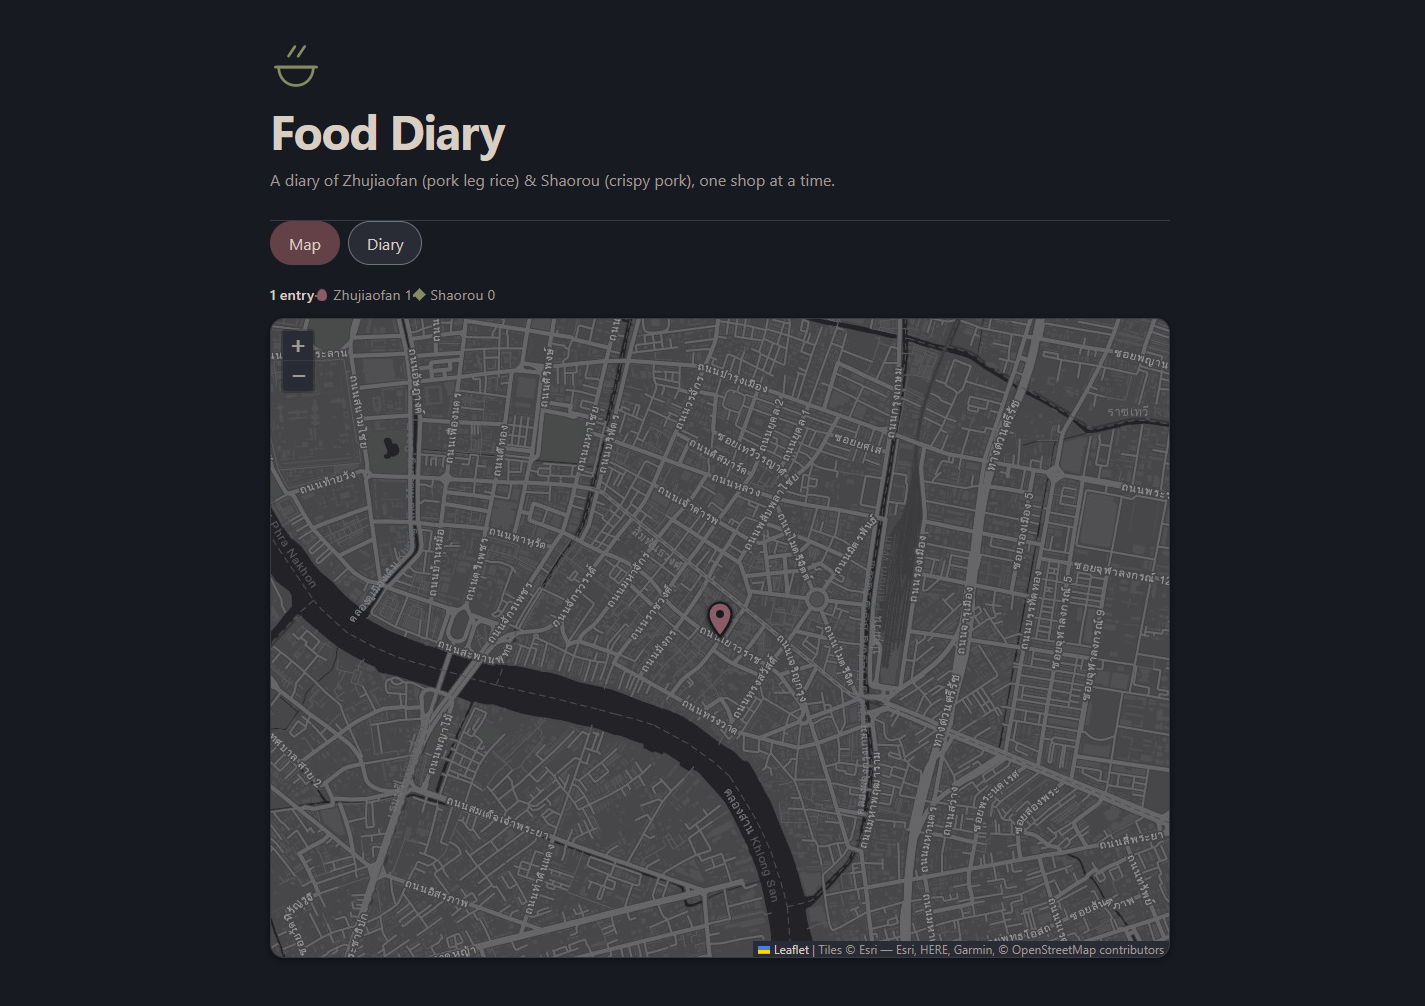
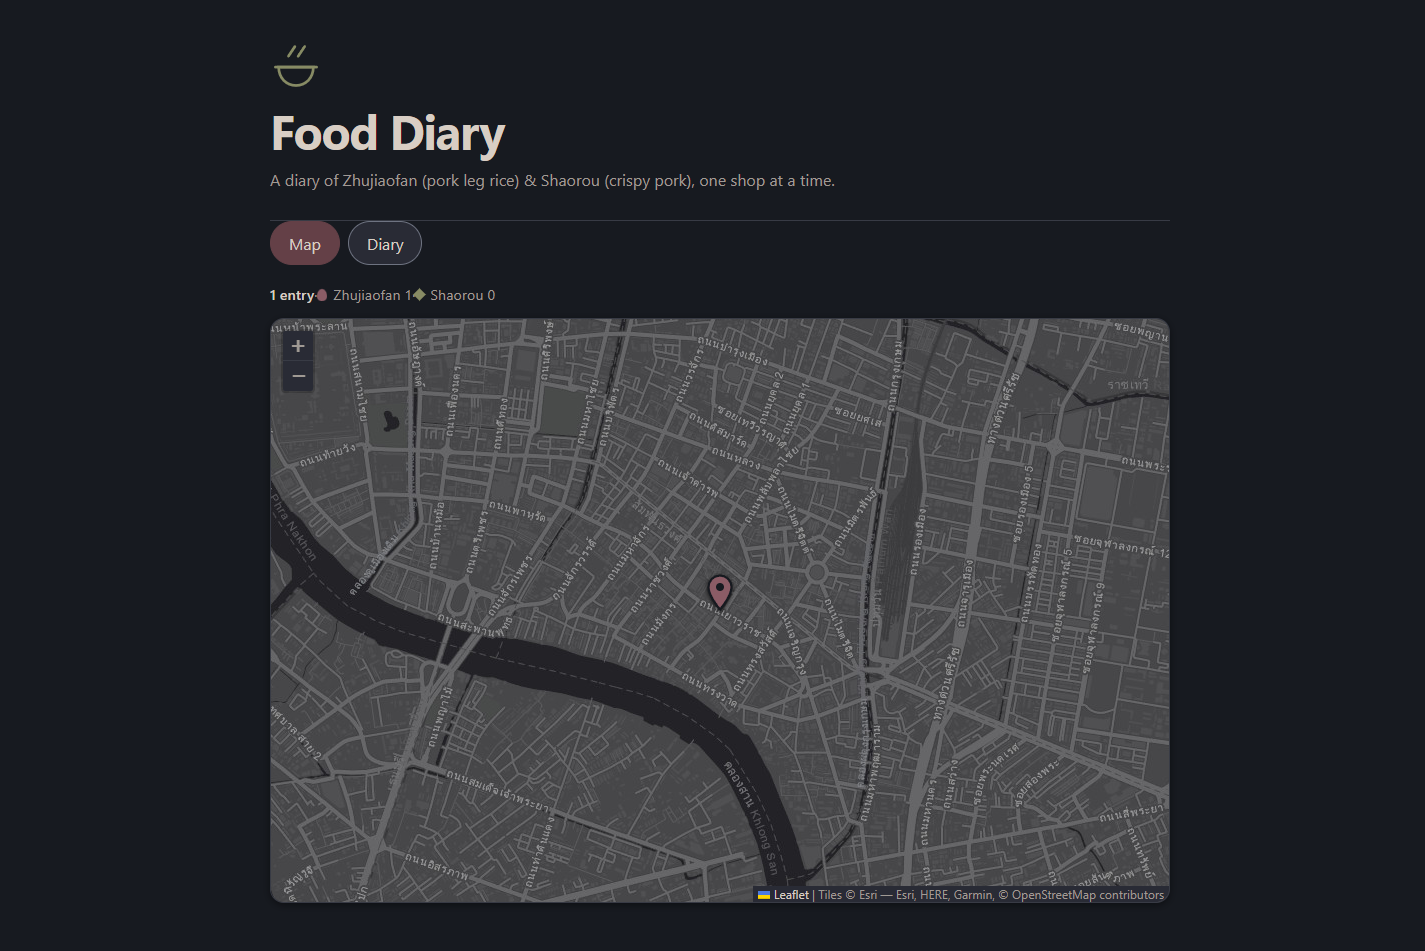
Fix popup link contrast, visible tile failure, doc accuracy

Changed region(s): [[0.1853, 0.5184, 0.8337, 0.9758], [0.1853, 0.0305, 0.8337, 0.4879]]

diff --git a/styles.css b/styles.css
@@ -149,6 +149,13 @@ header p { margin: 10px 0 0; color: var(--text-secondary); }
   border-color: var(--color-wine-deep);
 }
 
+.map-error {
+  max-width: var(--container);
+  margin: 0 auto var(--space-2);
+  color: var(--text-secondary);
+  font-size: var(--text-small);
+}
+
 #map-panel { max-width: var(--container); margin: 0 auto; }
 
 #map {
@@ -275,6 +282,11 @@ time { color: var(--text-secondary); font-size: var(--text-small); }
 .link:hover { text-decoration-color: var(--text-primary); }
 
 .leaflet-popup-content .chip { margin-bottom: 6px; }
+.leaflet-popup-content .link {
+  display: block;
+  color: var(--text-primary);
+  margin: 10px 0 0;
+}
 
 .empty { color: var(--text-secondary); }
 .empty p { margin: 0 0 var(--space-2); }
@@ -386,7 +398,10 @@ time { color: var(--text-secondary); font-size: var(--text-small); }
 
 #sheet-tag { align-self: flex-start; }
 
-.sheet-inner .link { align-self: flex-start; }
+.sheet-inner .link {
+  align-self: flex-start;
+  padding: var(--space-1) 0;
+}
 
 .sheet-open {
   margin-top: 14px;
@@ -410,4 +425,5 @@ time { color: var(--text-secondary); font-size: var(--text-small); }
   #map { height: calc(100svh - 310px); min-height: 300px; }
   .btn { padding: var(--space-1) var(--space-3); }
   .leaflet-control-zoom { display: none; }
+  .leaflet-control-attribution { font-size: 10px; }
 }

diff --git a/index.html b/index.html
@@ -5,7 +5,7 @@
   <meta name="viewport" content="width=device-width, initial-scale=1">
   <title>Food Diary</title>
   <link rel="stylesheet" href="https://unpkg.com/leaflet@1.9.4/dist/leaflet.css">
-  <link rel="stylesheet" href="styles.css?v=8">
+  <link rel="stylesheet" href="styles.css?v=9">
 </head>
 <body>
   <header>
@@ -26,6 +26,7 @@
 
   <section id="map-panel">
     <p id="map-summary" class="summary"></p>
+    <p id="map-error" class="map-error" hidden>The map tiles could not load. The diary below still works.</p>
     <div id="map" role="region" aria-label="Shop map"></div>
   </section>
 
@@ -51,7 +52,7 @@
   </div>
 
   <script src="https://unpkg.com/leaflet@1.9.4/dist/leaflet.js"></script>
-  <script src="data/entries.js?v=8"></script>
-  <script src="app.js?v=8"></script>
+  <script src="data/entries.js?v=9"></script>
+  <script src="app.js?v=9"></script>
 </body>
 </html>

diff --git a/app.js b/app.js
@@ -337,9 +337,13 @@ function initMap() {
   ).addTo(map);
 
   let tileFailures = 0;
+  const mapError = document.getElementById("map-error");
   tiles.on("tileerror", () => {
     tileFailures += 1;
-    if (tileFailures === 1) announce("The map tiles could not load.");
+    if (tileFailures === 1) {
+      if (mapError) mapError.hidden = false;
+      announce("The map tiles could not load.");
+    }
   });
 
   const points = [];

diff --git a/DESIGN.md b/DESIGN.md
@@ -145,7 +145,7 @@ A single centred column capped at 900px, with 20px page padding (12px on phones)
 
 Density is comfortable: 18px between cards, 18–20px card padding, 8px between pills, more space above a heading than below it. The masthead closes on a hairline before the controls begin. On a dark ground the column is what holds the page together — the tonal steps are subtle enough that alignment, not contrast, does the separating.
 
-The map is the tallest element and the only one that scales with the viewport: `clamp(360px, 65vh, 640px)` on desktop, a flat 50vh on phones with a 300px floor. Cards are two columns on desktop (fixed 220px image beside the text) and collapse to one column with a 180px image at the single 600px breakpoint.
+The map is the tallest element and the only one that scales with the viewport: `clamp(360px, 65vh, 640px)` on desktop, and on phones `calc(100svh - 310px)` with a 300px floor so the map reaches the fold under the masthead. Cards are two columns on desktop (fixed 220px image beside the text) and collapse to one column with a 180px image at the single 600px breakpoint. A card with no photo collapses to one full-width column (`.card--no-media`) rather than squeezing its text into the empty image slot.
 
 ## Elevation & Depth
 
@@ -200,10 +200,15 @@ Pins are outlined in Ink Ground rather than white, because on a dark basemap a d
 Tabs ("Map" / "Diary") and the dish filters share one pill vocabulary in two rows, 18px apart, inside the 900px column. Active is the Wine pill; idle pills are Slate Surface on the ground. Rows wrap on phones rather than scroll.
 
 ### Map pins (signature)
-Two silhouettes drawn as inline SVG inside Leaflet div icons: a 28×38 wine-lift teardrop anchored at its point, and a 26×26 brass diamond anchored at its centre. Both carry a 2.2px ink outline and a drop shadow. Each pin exposes shop and dish as its accessible label and opens a popup (desktop) or the bottom sheet (phone). The basemap is CARTO dark, so the map sits inside the world instead of glaring out of it.
+Two silhouettes drawn as inline SVG inside Leaflet div icons: a 28×38 wine-lift teardrop anchored at its point, and a 26×26 brass diamond anchored at its centre. Both carry a 2.2px ink outline and a drop shadow. Each pin exposes shop and dish as its accessible label and opens a popup (desktop) or the bottom sheet (phone).
+
+The basemap is Esri World Dark Gray Canvas (keyless raster tiles, "Tiles © Esri — Esri, HERE, Garmin, © OpenStreetMap contributors"), so the map sits inside the world instead of glaring out of it. Leaflet's own chrome is re-painted from tokens: popup, zoom buttons and attribution use Slate Surface and the world's text colours, and the popup close keeps its library size. If tiles fail, a visible line above the map says so — the map is the primary view, so its failure must not be silent.
+
+### Text links
+`.link` is the one link style: Candle Cream text with a 1px brass underline at 3px offset, brightening its underline on hover. Inside a Leaflet popup it is forced back to Candle Cream (`.leaflet-popup-content .link`) because Leaflet's own anchor colour would otherwise win on specificity and paint it blue. Used for "Open in Google Maps" on the card, the popup and the sheet.
 
 ### Summary line
-One line above the map: shop count in Candle Cream at semibold, then one key per dish — a small swatch silhouette beside "Zhujiaofan N" / "Shaorou N" — separated by clay middots. It doubles as the pin legend.
+One line above the map: entry count in Candle Cream at semibold, then one key per dish — a small swatch silhouette beside "Zhujiaofan N" / "Shaorou N" — separated by clay middots. It doubles as the pin legend.
 
 ### Mobile detail sheet
 A bottom sheet on Slate Surface, 14px rounded on its top edge, lifted by the sheet shadow. Dish chip, shop, date, scrolling note, and the wine primary action. Close by control, by tapping the map, or Escape; focus enters the sheet and returns to the pin.

diff --git a/README.md b/README.md
@@ -22,3 +22,10 @@ git push
 ```
 
 GitHub Pages updates in about a minute.
+
+## Basemap
+
+The map uses **Esri World Dark Gray Canvas** keyless raster tiles:
+`https://services.arcgisonline.com/ArcGIS/rest/services/Canvas/World_Dark_Gray_Base/MapServer/tile/{z}/{y}/{x}`
+
+Attribution required in the map: "Tiles © Esri — Esri, HERE, Garmin, © OpenStreetMap contributors". The tile URL and attribution string live in `app.js` (`initMap`). If the provider ever starts requiring an API key (CARTO's dark tiles did exactly that), swap both the URL and the attribution, and confirm a real tile loads — a dead basemap shows a visible warning line above the map.
